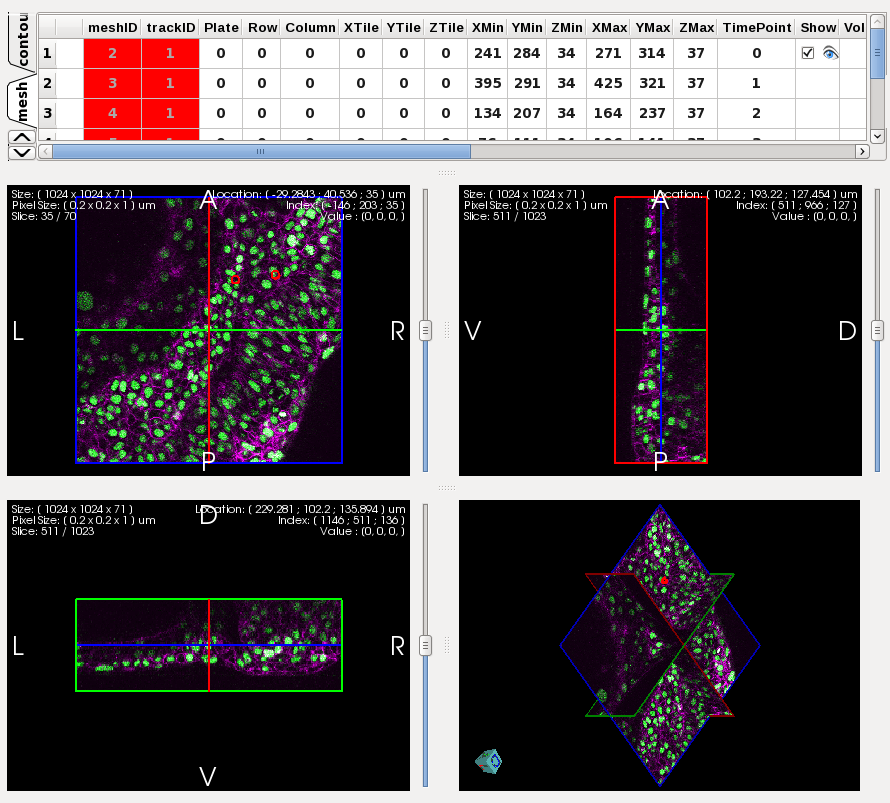
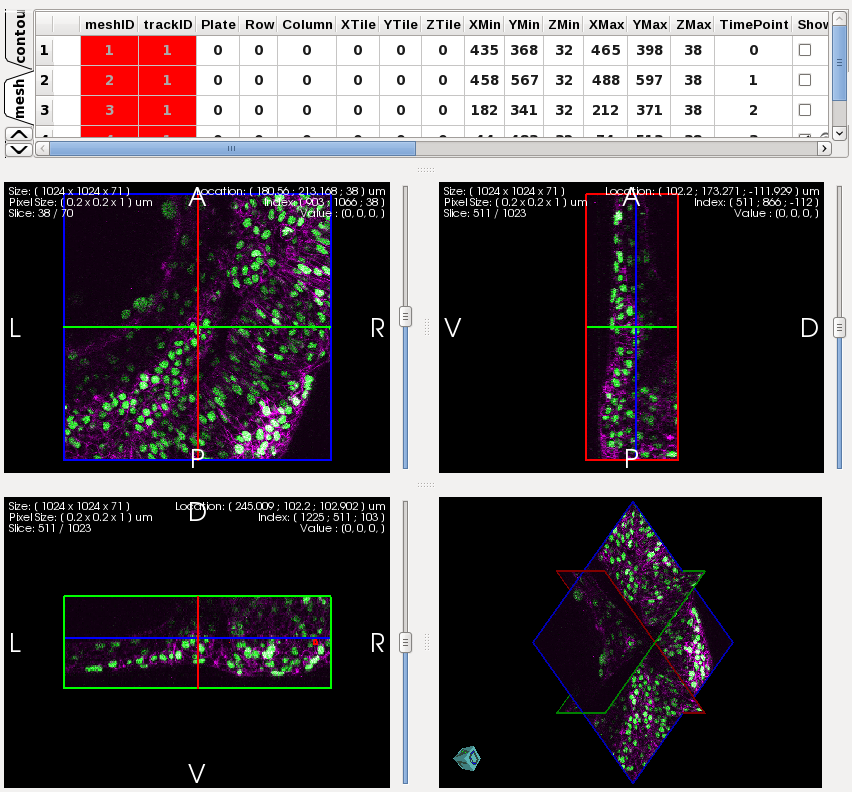
Need to compare before and after images. BUG: crashes after exit image session.

diff --git a/Testing/Sikuli/ImportTracks.sikuli/ImportTracks.html b/Testing/Sikuli/ImportTracks.sikuli/ImportTracks.html
@@ -90,8 +90,12 @@ a = <span class="skw">find</span>(<img src="3DMeshes.png" />)
 <span class="skw">type</span>(Key.ENTER)
 <span class="cmt">#NEED TO FIGURE OUT HOW TO SELECT 3DMeshExportTest.txt file for any user on any OS
 </span>
-<span class="skw">click</span>(<img src="File.png" />)
-<span class="skw">click</span>(<img src="Close_all.png" />)
+<span class="cmt">#click("File.png")
+</span><span class="cmt">#click("Close_all.png")
+</span><span class="skw">wait</span>(<span class="dig">2</span>)
+keyDown(Key.CTRL)
+<span class="skw">type</span>(<span class="str">"w"</span>)
+keyUp(Key.CTRL)
 
 <span class="skw">click</span>(<img src="UseDatabaseIcon.png" />)
 <span class="skw">click</span>(<img src="Next.png" />)
@@ -105,6 +109,26 @@ a = <span class="skw">find</span>(<img src="3DMeshes.png" />)
 
 
 
+hover(<img src="Table_MeshTab.png" />)
+
+<span class="kw">from</span> java.awt <span class="kw">import</span> Robot
+robot = Robot()
+robot.mouseWheel(<span class="dig">1</span>)
+
+<span class="cmt">#hover("Table_MeshTab.png")
+</span><span class="cmt">#rightClick(region.getLastMatch().right(200).above(100))
+</span><span class="skw">rightClick</span>(<img src="RedTrack1.png" />)
+<span class="skw">type</span>(Key.DOWN+Key.ENTER+Key.DOWN+Key.DOWN+Key.DOWN+Key.ENTER)
+
+keyDown(Key.CTRL)
+<span class="skw">type</span>(<span class="str">"d"</span>+<span class="str">"d"</span>+<span class="str">"d"</span>)
+keyUp(Key.CTRL)
+<span class="skw">wait</span>(<span class="dig">6</span>)
+
+<span class="skw">click</span>(<img src="TableWidgetIcon.png" />)
+<span class="skw">click</span>(<img src="WhiteArrowIcon.png" />)
+<span class="skw">click</span>(<img src="TableWidgetIcon.png" />)
+<span class="skw">click</span>(<img src="MeshSegmentationIcon.png" />)
 
 <span class="cmt">#compare before image in gofigureimage folder to after image taken here
 </span><span class="cmt">#reg = find(Pattern("roughQuadViewRectangle.png").similar(0.30))
@@ -113,16 +137,25 @@ a = <span class="skw">find</span>(<img src="3DMeshes.png" />)
 </span><span class="cmt">#quadview_image_AFTER =capture(table_quadview)
 </span>
 
-f = open(address+<span class="str">"/quadview_image_BEFORE_address.txt"</span>,<span class="str">"r"</span>)
-quadview_BEFORE = f.read()
-
-<span class="kw">print</span> quadview_BEFORE
-
-<span class="cmt">#import shutil
-</span><span class="cmt">#shutil.copy(quadview_BEFORE,address)
+<span class="cmt">#f = open(address+"/quadview_image_BEFORE_address.txt","r")
+</span><span class="cmt">#quadview_BEFORE = f.read()
 </span>
-<span class="cmt">#make sure images are exact.
-</span><span class="skw">find</span>(<img src="quadview_BEFORE.png" />).similar(<span class="dig">.50</span>)
+<span class="cmt">#print quadview_BEFORE
+</span>
+<span class="cmt">#import shutil
+</span><span class="cmt">#shutil.copy2(quadview_BEFORE,address)
+</span>
+<span class="cmt">#print "copied address"
+</span><span class="cmt">#make sure images are exact.
+</span>quadview_image_AFTER = <span class="skw">capture</span>(<span class="dig">264</span>,<span class="dig">157</span>,<span class="dig">852</span>,<span class="dig">792</span>)
+<span class="kw">print</span> <span class="str">"captured image"</span>
+
+<span class="kw">import</span> shutil
+shutil.copy2(quadview_image_AFTER,address+<img src="/quadview_image_AFTER.png" />)
+
+<span class="kw">print</span> <span class="str">"copied image"</span>
+
+<span class="skw">find</span>(<img src="quadview_image_BEFORE.png" />).similar(<span class="dig">.50</span>)
 
 
 <span class="cmt">#open GF

diff --git a/Testing/Sikuli/Export3DMesh.sikuli/Export3DMesh.html b/Testing/Sikuli/Export3DMesh.sikuli/Export3DMesh.html
@@ -98,13 +98,17 @@ setBundlePath(address)
 reg = <span class="skw">find</span>(Pattern(<img src="roughQuadViewRectangle.png" />).similar(<span class="dig">0.30</span>))
 <span class="cmt">#this should find a rough 30% image and just get the coordinates and then take real image below
 </span>table_quadview = reg.getRect()
+
+<span class="kw">print</span> table_quadview
+
 quadview_image_BEFORE =<span class="skw">capture</span>(table_quadview)
-<span class="kw">import</span> shutil
-shutil.copy2(quadview_image_BEFORE, address+<img src="/quadview_BEFORE.png" />)
 <span class="kw">print</span> quadview_image_BEFORE
 
-f = open(<span class="str">"quadview_image_BEFORE_address.txt"</span>,<span class="str">"w"</span>)
-f.write(quadview_image_BEFORE)
+<span class="cmt">#f = open("quadview_image_BEFORE_address.txt","w")
+</span><span class="cmt">#f.write(quadview_image_BEFORE)
+</span>
+<span class="kw">import</span> shutil
+shutil.copy2(quadview_image_BEFORE,address+<img src="/quadview_image_BEFORE.png" />)
 
 <span class="kw">import</span> re
 string = <span class="str">"/home/es1076/GITROOT/GoFigure2/BUILD/bin/gofigure"</span>

diff --git a/Testing/Sikuli/Draw3DMesh.sikuli/Draw3DMesh.html b/Testing/Sikuli/Draw3DMesh.sikuli/Draw3DMesh.html
@@ -88,9 +88,9 @@ address = os.getcwd()
 <span class="skw">type</span>(Key.ENTER)
 <span class="cmt">#x = region.getLastMatch()
 </span>
-<span class="skw">click</span>(<span class="skw">find</span>(<img src="Mode.png" />).right(<span class="dig">200</span>))
-<span class="skw">click</span>(<img src="Manual.png" />)
-
+<span class="cmt">#click(find("Mode.png").right(200))
+</span><span class="cmt">#click("Manual.png")
+</span>
 <span class="kw">import</span> random
 region = <span class="skw">find</span>(Pattern(<img src="XY_ViewRegion.png" />).similar(<span class="dig">0.30</span>))
 <span class="kw">print</span> region

diff --git a/Testing/Sikuli/ImportTracks.sikuli/ImportTracks.py b/Testing/Sikuli/ImportTracks.sikuli/ImportTracks.py
@@ -18,8 +18,12 @@ type("3DMeshExportTest.txt")
 type(Key.ENTER)
 #NEED TO FIGURE OUT HOW TO SELECT 3DMeshExportTest.txt file for any user on any OS
 
-click("File.png")
-click("Close_all.png")
+#click("File.png")
+#click("Close_all.png")
+wait(2)
+keyDown(Key.CTRL)
+type("w")
+keyUp(Key.CTRL)
 
 click("UseDatabaseIcon.png")
 click("Next.png")
@@ -33,6 +37,26 @@ click("MeshSegmentationIcon.png")
 
 
 
+hover("Table_MeshTab.png")
+
+from java.awt import Robot
+robot = Robot()
+robot.mouseWheel(1)
+
+#hover("Table_MeshTab.png")
+#rightClick(region.getLastMatch().right(200).above(100))
+rightClick("RedTrack1.png")
+type(Key.DOWN+Key.ENTER+Key.DOWN+Key.DOWN+Key.DOWN+Key.ENTER)
+
+keyDown(Key.CTRL)
+type("d"+"d"+"d")
+keyUp(Key.CTRL)
+wait(6)
+
+click("TableWidgetIcon.png")
+click("WhiteArrowIcon.png")
+click("TableWidgetIcon.png")
+click("MeshSegmentationIcon.png")
 
 #compare before image in gofigureimage folder to after image taken here
 #reg = find(Pattern("roughQuadViewRectangle.png").similar(0.30))
@@ -41,16 +65,25 @@ click("MeshSegmentationIcon.png")
 #quadview_image_AFTER =capture(table_quadview)
 
 
-f = open(address+"/quadview_image_BEFORE_address.txt","r")
-quadview_BEFORE = f.read()
+#f = open(address+"/quadview_image_BEFORE_address.txt","r")
+#quadview_BEFORE = f.read()
 
-print quadview_BEFORE
+#print quadview_BEFORE
 
 #import shutil
-#shutil.copy(quadview_BEFORE,address)
+#shutil.copy2(quadview_BEFORE,address)
 
+#print "copied address"
 #make sure images are exact.
-find("quadview_BEFORE.png").similar(.50)
+quadview_image_AFTER = capture(264,157,852,792)
+print "captured image"
+
+import shutil
+shutil.copy2(quadview_image_AFTER,address+"/quadview_image_AFTER.png")
+
+print "copied image"
+
+find("quadview_image_BEFORE.png").similar(.50)
 
 
 #open GF

diff --git a/Testing/Sikuli/Export3DMesh.sikuli/Export3DMesh.py b/Testing/Sikuli/Export3DMesh.sikuli/Export3DMesh.py
@@ -26,13 +26,17 @@ type("3DMeshExportTest.txt"+Key.ENTER)
 reg = find(Pattern("roughQuadViewRectangle.png").similar(0.30))
 #this should find a rough 30% image and just get the coordinates and then take real image below
 table_quadview = reg.getRect()
+
+print table_quadview
+
 quadview_image_BEFORE =capture(table_quadview)
-import shutil
-shutil.copy2(quadview_image_BEFORE, address+"/quadview_BEFORE.png")
 print quadview_image_BEFORE
 
-f = open("quadview_image_BEFORE_address.txt","w")
-f.write(quadview_image_BEFORE)
+#f = open("quadview_image_BEFORE_address.txt","w")
+#f.write(quadview_image_BEFORE)
+
+import shutil
+shutil.copy2(quadview_image_BEFORE,address+"/quadview_image_BEFORE.png")
 
 import re
 string = "/home/es1076/GITROOT/GoFigure2/BUILD/bin/gofigure"

diff --git a/Testing/Sikuli/Draw3DMesh.sikuli/Draw3DMesh.py b/Testing/Sikuli/Draw3DMesh.sikuli/Draw3DMesh.py
@@ -16,8 +16,8 @@ click("Add_new_track.png")
 type(Key.ENTER)
 #x = region.getLastMatch()
 
-click(find("Mode.png").right(200))
-click("Manual.png")
+#click(find("Mode.png").right(200))
+#click("Manual.png")
 
 import random
 region = find(Pattern("XY_ViewRegion.png").similar(0.30))
